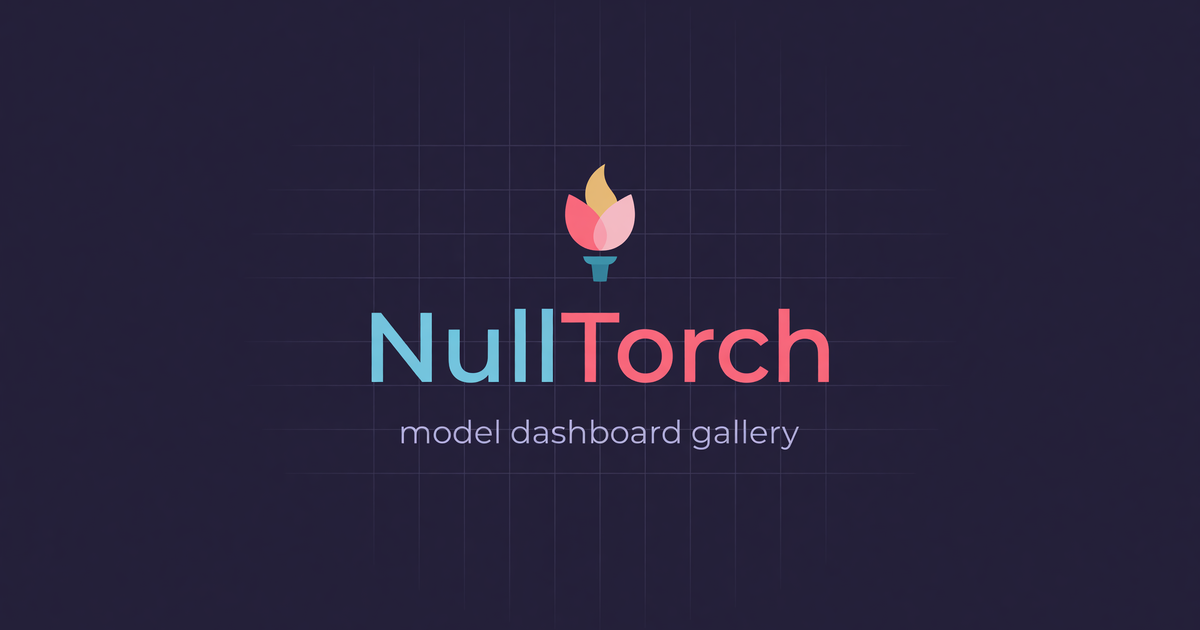
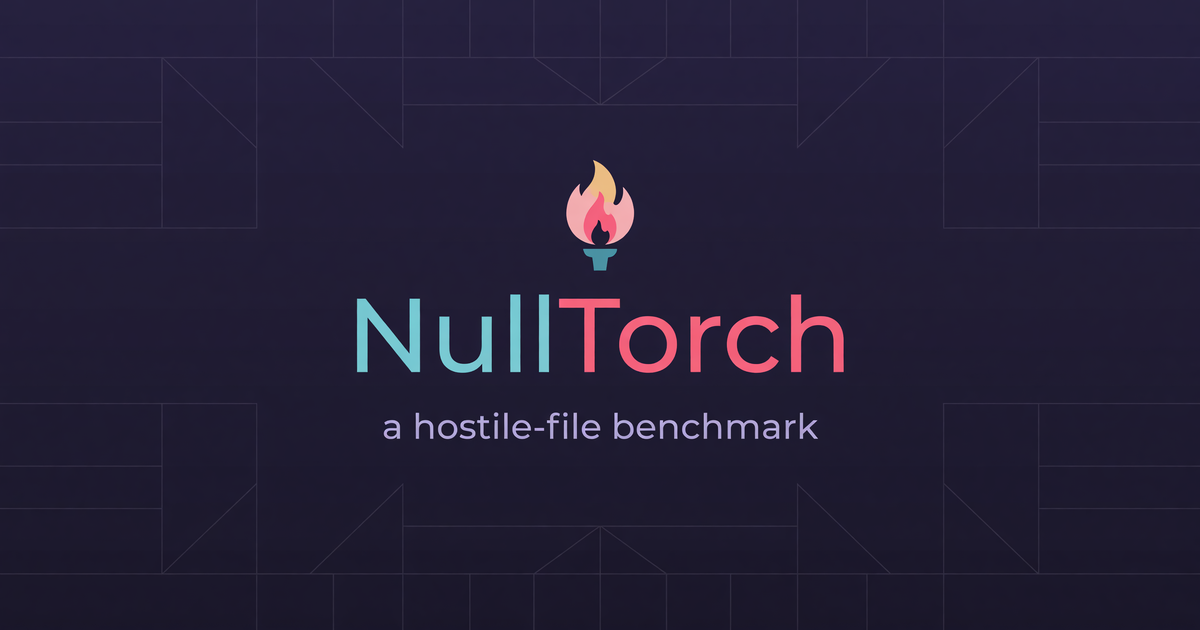
site: publish ./showcase to nulltorch.com

Changed region(s): [[0.2775, 0.2413, 0.7092, 0.6333], [0.3083, 0.6635, 0.6783, 0.7238]]

diff --git a/index.html b/index.html
@@ -14,12 +14,12 @@
 <meta property="og:image" content="https://nulltorch.com/og-image.png">
 <meta property="og:image:width" content="1200">
 <meta property="og:image:height" content="630">
-<meta property="og:image:alt" content="NullTorch — model dashboard gallery. Torch-flame emblem above the NullTorch wordmark on a dark Rose Pine background.">
+<meta property="og:image:alt" content="NullTorch — a hostile-file benchmark. Torch-flame emblem above the NullTorch wordmark on a dark Rose Pine background.">
 <meta name="twitter:card" content="summary_large_image">
 <meta name="twitter:title" content="NullTorch — model dashboard gallery">
 <meta name="twitter:description" content="NullTorch: a hostile-file benchmark for AI coding models. Each model writes a pure-C++ PyTorch .pt checkpoint reader, then faces six tiers of fixtures — correctness T1–T5, booby-trapped pickles T6.">
 <meta name="twitter:image" content="https://nulltorch.com/og-image.png">
-<meta name="twitter:image:alt" content="NullTorch — model dashboard gallery. Torch-flame emblem above the NullTorch wordmark on a dark Rose Pine background.">
+<meta name="twitter:image:alt" content="NullTorch — a hostile-file benchmark. Torch-flame emblem above the NullTorch wordmark on a dark Rose Pine background.">
 <meta name="theme-color" media="(prefers-color-scheme: light)" content="#faf4ed">
 <meta name="theme-color" media="(prefers-color-scheme: dark)" content="#191724">
 <link rel="icon" href="favicon.svg" type="image/svg+xml">